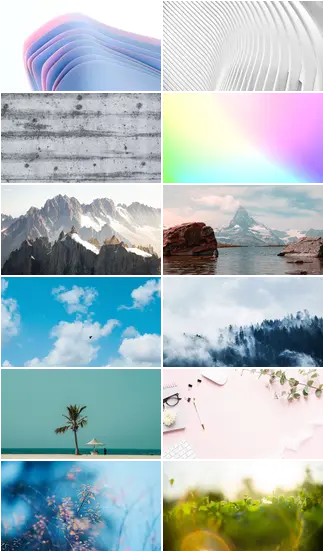
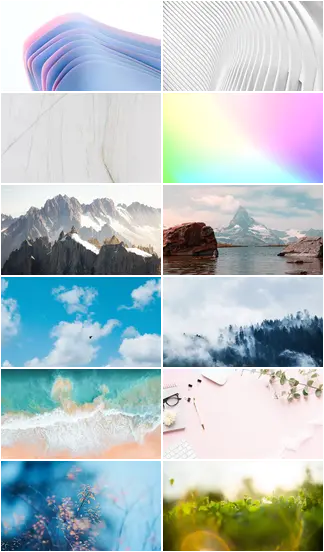
replace two example bg assets, update gallery README

Changed region(s): [[0.0, 0.6467, 0.5247, 0.8315], [0.0, 0.154, 0.4938, 0.3388]]

diff --git a/public/lifat/background/README.md b/public/lifat/background/README.md
@@ -1,15 +1,16 @@
 ### Prerequistes
 
-* Git LFS setup and gally data fetched
+* Git LFS setup and gallery assets fetched
 * ImageMagic
 * Fontconfig (`lila-docker` only)
 
 ### To create/update a background image gallery:
 
 - First arrange the image files in `lifat/background/gallery`. The alphanumeric sort order of the filenames will become the gallery order.
-- Then execute `node run make-gallery.js`
+- Then execute `node make-gallery.js`
 - That script uses imagemagick to build `montage2.webp` and `montage4.webp`. These generated images are a montage of thumbnails rendered at 160x90 each in 2 & 4 column grids.
-- It also spits out a `gallery.json` which is an ordered array of image asset URLs corresponding to gallery position.
+- It also spits out a `gallery.json` which contains a datasets for light and dark themes, with 
+an ordered array of image asset URLs corresponding to gallery position.
 
 ### At runtime:
 
